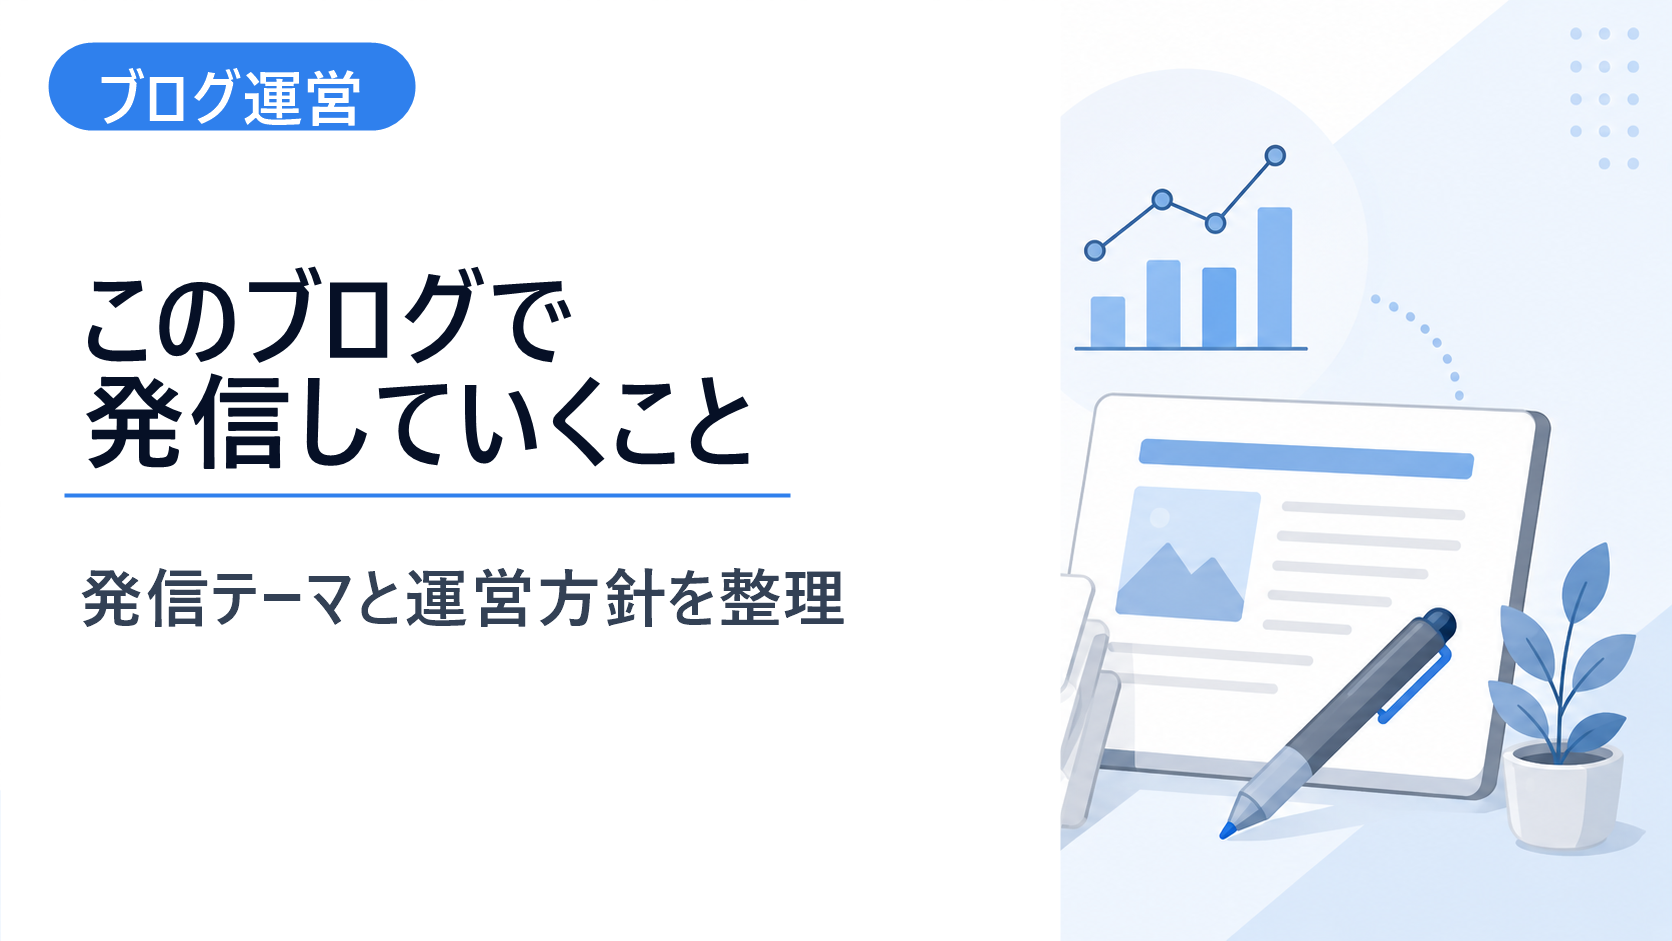
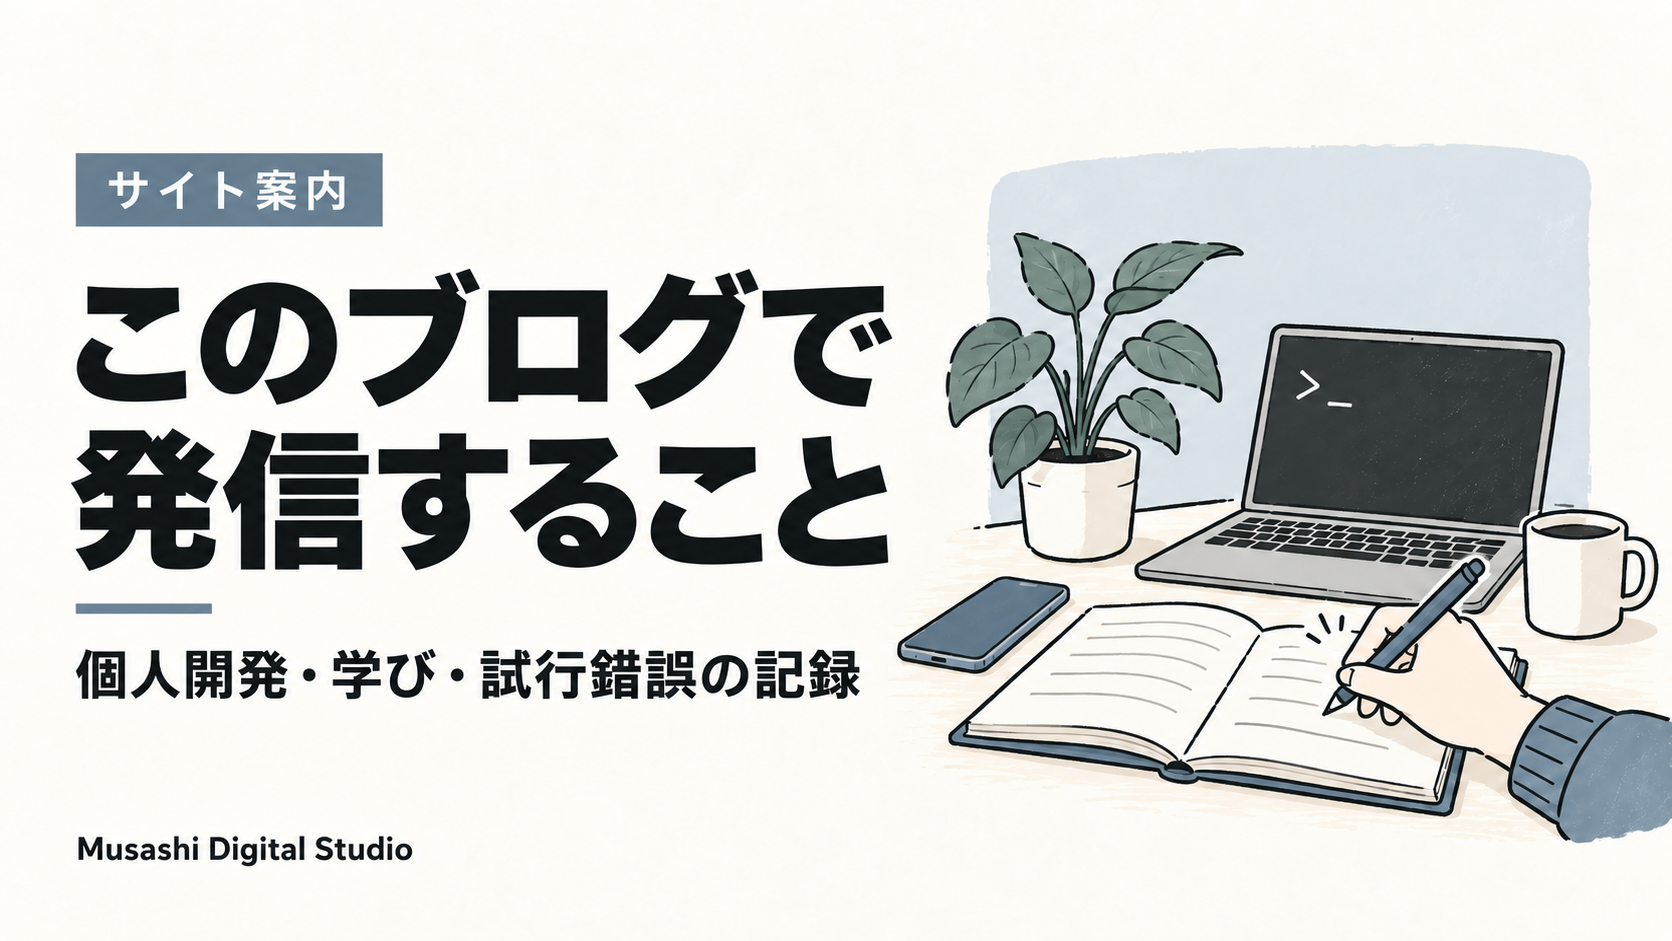
style: 全13記事のアイキャッチを手描きデザインに更新

diff --git a/_posts/2026/04/2026-04-10-仕事中に眠くなったときの対処法6選法.md b/_posts/2026/04/2026-04-10-仕事中に眠くなったときの対処法6選法.md
@@ -1,14 +1,14 @@
 ---
 layout: post
 title: "仕事中に眠くなったときの対処法5選"
-description: ""
+description: "仕事中に眠くなったとき、職場で自然に試しやすい5つの対処法を紹介します。コミュニケーション、軽い移動、飲み物など、状況に合わせて選べる方法をまとめました。"
 date: 2026-04-10 13:45:00 +0900
 updated_at:
 category: その他
 tags:
   - dev-memo
 thumbnail: /assets/images/blog/2026-04-10-work-sleepiness/thumbnail.png
-thumbnail_alt: 記事カードと改善グラフで仕事中の眠気対策を整理するイメージ
+thumbnail_alt: "仕事中の眠気対策5選。机で伸びをする人物と水の入ったコップを描いたイラスト"
 excerpt: "仕事中の眠気を、職場で自然に試しやすい順にまとめました。コミュニケーション、軽い移動、飲み物など、すぐできる対処法を紹介しています。"
 ---
 

diff --git a/_posts/2026/05/2026-05-06-AI副業はもう簡単ではない.md b/_posts/2026/05/2026-05-06-AI副業はもう簡単ではない.md
@@ -8,7 +8,7 @@ category: その他
 tags:
   - AI
 thumbnail: /assets/images/blog/2026-05-06-ai-side-hustle/thumbnail.png
-thumbnail_alt: AIノードと積み木でAI副業と本業の強みを表すイメージ
+thumbnail_alt: "AI副業の現実と戦略。パソコンの横で本業の知識やアイデアを整理する人物のイラスト"
 excerpt: "生成AIによって副業の入口は広がりましたが、単純な制作代行ほど価格競争に巻き込まれやすくなっています。本業の知識や経験をAIで増幅し、個人が現実的に戦うための考え方を整理します。"
 ---
 生成AIの普及によって、「AIを使えば副業で簡単に稼げる」という情報を目にする機会が増えました。

diff --git a/_posts/2026/04/2026-04-16-GitHub Actions の yml は何を書いているのか.md b/_posts/2026/04/2026-04-16-GitHub Actions の yml は何を書いているのか.md
@@ -9,8 +9,8 @@ tags:
   - workflow
   - beginner
   - dev-memo
-thumbnail: /assets/images/blog/2026-04-17-github-actions-yml/thumbnail.png
-thumbnail_alt: ブランチ図とリポジトリでGitHub Actionsのworkflow ymlを表すイメージ
+thumbnail: /assets/images/blog/2026-04-16-github-actions-yml/thumbnail.png
+thumbnail_alt: "GitHub Actionsのymlの読み方。設定を読む人物と時計・鍵を描いたイラスト"
 excerpt: "GitHub Actions の yml は、いつ動かすか、どんな環境で動かすか、Secrets をどう渡すかを書くための設定ファイルです。"
 ---
 {% assign related_scraping_url = '/blog/2026/04/16/GitHub-Actionsを使った無料スクレイピング術/' | relative_url %}

diff --git a/_posts/2026/09/2026-09-29-github-main-protection.md b/_posts/2026/09/2026-09-29-github-main-protection.md
@@ -7,8 +7,8 @@ category: 開発
 tags:
   - workflow
   - dev-memo
-thumbnail: /assets/images/blog/2026-09-29-github-main-protection/thumbnail.jpg
-thumbnail_alt: "1人でもmainを守る。Gitのブランチと盾を描いたmainブランチ保護設定のイメージ"
+thumbnail: /assets/images/blog/2026-09-29-github-main-protection/thumbnail.png
+thumbnail_alt: "GitHubのmain保護設定。ノートパソコンとチェックリストを確認する人物のイラスト"
 excerpt: "1人で運営するブログでもmainを保護。PR承認0人と必須チェックを使い、devからmainへ反映するための設定手順を紹介します。"
 ---
 

diff --git a/_posts/2026/04/2026-04-30-Git、Giteaを始める前に決めるべきルール.md b/_posts/2026/04/2026-04-30-Git、Giteaを始める前に決めるべきルール.md
@@ -12,7 +12,7 @@ tags:
   - beginner
   - dev-memo
 thumbnail: /assets/images/blog/2026-04-30-git-gitea-rules/thumbnail.png
-thumbnail_alt: ブランチ図とリポジトリでGit、Giteaの運用前ルールを表すイメージ
+thumbnail_alt: "Gitを始める前のルール。運用のチェックリストを整理する人物のイラスト"
 excerpt: "Git・Gitea入門シリーズの第2回です。GitやGiteaを使い始める前に、リポジトリの用途、公開範囲、入れてはいけない情報、ブランチ名、コミットメッセージなど、最低限の運用ルールを整理します。"
 ---
 

diff --git a/_posts/2026/04/2026-04-02-MacなしでできるiOSアプリ開発.md b/_posts/2026/04/2026-04-02-MacなしでできるiOSアプリ開発.md
@@ -11,7 +11,7 @@ tags:
   - app-dev
   - beginner
 thumbnail: /assets/images/blog/2026-04-02-ios-development-without-mac/thumbnail.png
-thumbnail_alt: スマホUIでMacなしのiOSアプリ開発を表すイメージ
+thumbnail_alt: "MacなしでiOSアプリ開発。パソコンの横でスマートフォンを操作する人物のイラスト"
 excerpt: "MacなしでiOSアプリを作るには、どんなツールやサービスが必要なのか。iPhoneだけで試す方法から、公開を目指す構成まで、段階ごとにわかりやすくまとめました。"
 ---
 ## この記事を読んでわかること

diff --git a/_posts/2026/04/2026-04-16-GitHub Actionsを使った無料スクレイピング術.md b/_posts/2026/04/2026-04-16-GitHub Actionsを使った無料スクレイピング術.md
@@ -10,7 +10,7 @@ tags:
   - beginner
   - dev-memo
 thumbnail: /assets/images/blog/2026-04-16-github-actions-scraping/thumbnail.png
-thumbnail_alt: ブランチ図とリポジトリでGitHub Actionsの自動化を表すイメージ
+thumbnail_alt: "GitHub Actionsでスクレイピング。取得した情報のカードを整理して保存する手元のイラスト"
 excerpt: "スクレイピング処理を main / fetch / normalize / csv / upload に分けておくと、壊れにくく直しやすい構成にできます。"
 ---
 {% assign related_yml_url = '/blog/2026/04/16/github-actions-yml/' | relative_url %}

diff --git a/_posts/2026/04/2026-04-05-よく使うgitコマンドまとめ.md b/_posts/2026/04/2026-04-05-よく使うgitコマンドまとめ.md
@@ -11,7 +11,7 @@ tags:
   - beginner
   - dev-memo 
 thumbnail: /assets/images/blog/2026-04-05-git-command-summary/thumbnail.png
-thumbnail_alt: ブランチ図とリポジトリでよく使うGitコマンドを表すイメージ
+thumbnail_alt: "よく使うGitコマンド。ターミナルを開いたパソコンと操作メモを描いたイラスト"
 excerpt: "Gitで日常的によく使うコマンドを、状態確認、コミット、ブランチ操作、リモート同期、退避の5つに分けて紹介します。"
 ---
 ## この記事を読んでわかること

diff --git a/_posts/2026/04/2026-04-01-このブログで発信していくこと.md b/_posts/2026/04/2026-04-01-このブログで発信していくこと.md
@@ -9,7 +9,7 @@ tags:
   - workflow
   - site-info
 thumbnail: /assets/images/blog/2026-04-01-blog-direction/thumbnail.png
-thumbnail_alt: 記事カードとペンでブログ運営の発信テーマを整理するイメージ
+thumbnail_alt: "このブログで発信すること。ノートに学びを記録する手元とパソコンを描いたイラスト"
 excerpt: "このブログで発信していく内容を整理した案内記事です。個人開発、学びや試行錯誤の記録を中心に扱います。"
 ---
 ## このブログで発信していくこと

diff --git a/_posts/2026/04/2026-04-06-Gitの命名法則とコマンド備忘録.md b/_posts/2026/04/2026-04-06-Gitの命名法則とコマンド備忘録.md
@@ -10,7 +10,7 @@ tags:
   - workflow
   - dev-memo
 thumbnail: /assets/images/blog/2026-04-06-git-naming-commands/thumbnail.png
-thumbnail_alt: ブランチ図とリポジトリでGitの命名法則とコマンド整理を表すイメージ
+thumbnail_alt: "Gitの命名法則とコマンド備忘録。見出し付きのバインダーを見返す手元のイラスト"
 excerpt: "main / develop / feature などの命名法則と、status / add / commit / branch / merge / restore などの基本コマンドをさっと見返せる形でまとめています。"
 ---
 

diff --git a/_posts/2026/04/2026-04-29-Git、Giteaとは.md b/_posts/2026/04/2026-04-29-Git、Giteaとは.md
@@ -11,7 +11,7 @@ tags:
   - beginner
   - dev-memo
 thumbnail: /assets/images/blog/2026-04-29-git-gitea-overview/thumbnail.png
-thumbnail_alt: ブランチ図とリポジトリでGit、GitHub、Giteaの違いを表すイメージ
+thumbnail_alt: "Git・GitHub・Giteaの違い。履歴のノートと共有先を確認する人物のイラスト"
 excerpt: "Git・Gitea入門シリーズの第1回です。Gitは変更履歴を管理する仕組み、GitHubやGiteaはGitリポジトリを共有・管理する場所として、まず全体像を整理します。"
 ---
 

diff --git a/_posts/2026/05/2026-05-06-Gitの基本的なコマンド.md b/_posts/2026/05/2026-05-06-Gitの基本的なコマンド.md
@@ -11,7 +11,7 @@ tags:
   - beginner
   - dev-memo
 thumbnail: /assets/images/blog/2026-05-06-git-basic-commands/thumbnail.png
-thumbnail_alt: ブランチ図とリポジトリでGitの基本コマンドを表すイメージ
+thumbnail_alt: "Gitの基本コマンド。ターミナルとノートを見ながら操作を学ぶ人物のイラスト"
 excerpt: "Git・Gitea入門シリーズの第3回です。日常的によく使うGitコマンドを、状態確認、変更の記録、ブランチ操作、GitHubやGiteaとの同期に分けて整理します。"
 ---
 
